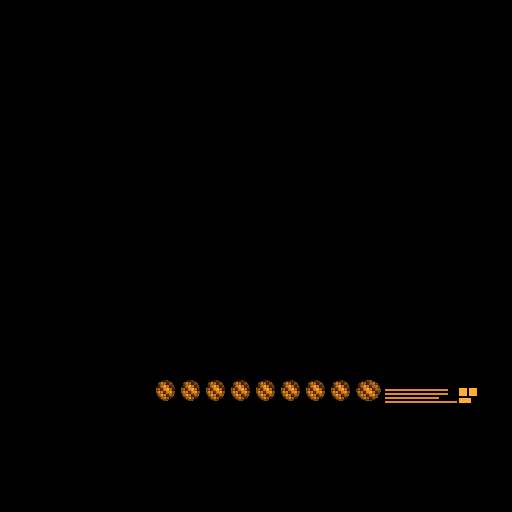
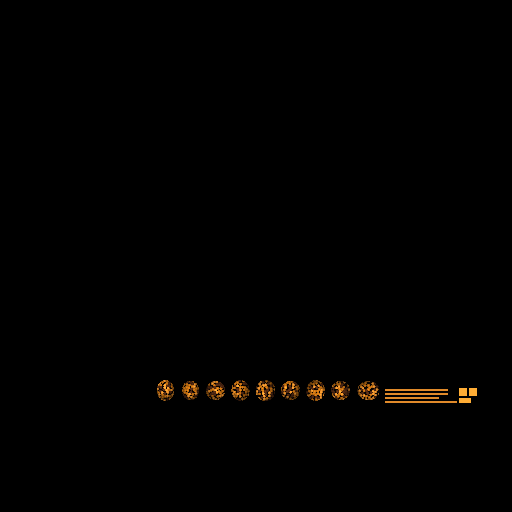
fauna: the Naturalizer's granules are packed beads, and no two beds match
Two of the audit's items needed no aperture work, so they were taken while the
graft/atlas blocker stands.

RESOLVED — all eight beds were pixel-identical. They shared one card-art function,
so every island was the same stamp and the shell read as a repeated decal rather
than an organism. Each window now takes its own seed, moving the packing, shifting
the hot spot off centre and varying the lozenge aspect. Running all nine art
functions over a blank 19x21 tile and comparing: 36 identical pairs of 36 -> 0.

IMPROVED, not resolved — the fill read as a flat woven checkerboard. It kept a
rigid int(x / 3) lattice and took its colour from a per-cell hash, so alternating
light and dark cells in square rows read as weave however round each cell was
shaded. Staggering odd rows and jittering each centre a quarter-cell was NOT
enough: a jittered lattice is still a lattice and the 3-px repeat only fell 0.498
to 0.429. Beads are now dart-thrown against a minimum separation with each pixel
shaded from its nearest bead, which is what packing actually looks like.

  shipped           36/36 identical   repeat 0.498   16.0 highlights/bed
  lattice + jitter   0/36             repeat 0.429   32.7
  dart-thrown        0/36             repeat 0.351   23.7

Plainly: 0.351 is a 30% reduction, not zero, and some periodicity is inherent to
any packed field — the sheet's own beds would measure above zero. The render reads
[…]

Changed region(s): [[0.2812, 0.7188, 0.75, 0.7812]]

diff --git a/to-rust-as-we-fall/docs/SHEET_AUDIT_BACKLOG.md b/to-rust-as-we-fall/docs/SHEET_AUDIT_BACKLOG.md
@@ -1625,3 +1625,46 @@ Builder's card rotation convention rather than guessing, and fix the two remaini
 UNRESOLVED items with it: the beds are all one duplicated stamp (byte-identical
 19x21 islands) and the fill is a flat axis-aligned checkerboard where the sheet
 has ~40 discrete round beads each with its own highlight.
+
+### naturalizer granules — one finding RESOLVED, one measurably improved
+
+Two of the audit's items needed no aperture work, so they were taken while the
+graft/atlas blocker stands.
+
+**RESOLVED — "all eight beds are now pixel-identical".** They shared one card-art
+function, so every island was the same stamp and the shell read as a repeated
+decal. Each window now takes its own seed, which moves the packing, shifts the hot
+spot off centre and varies the lozenge aspect. Measured by running all nine art
+functions over a blank 19x21 tile and comparing: **36 identical pairs of 36 → 0
+of 36.**
+
+**IMPROVED, NOT RESOLVED — "a flat woven checkerboard rather than packed spheres".**
+The first attempt kept a rigid `int(x / 3)` lattice and took its colour from a
+per-cell hash, so alternating light and dark cells in square rows read as weave
+however round each cell was shaded. Staggering odd rows and jittering each centre
+a quarter-cell was NOT enough — a jittered lattice is still a lattice, and the
+3-px repeat only fell 0.498 → 0.429. Beads are now dart-thrown against a minimum
+separation and each pixel shaded from its NEAREST bead, which is what packing
+actually looks like.
+
+Head to head, over all nine beds:
+
+| | identical pairs | 3-px repeat | highlights/bed |
+|---|---|---|---|
+| shipped | 36/36 | 0.498 | 16.0 |
+| lattice + jitter | 0/36 | 0.429 | 32.7 |
+| dart-thrown | **0/36** | **0.351** | 23.7 |
+
+Stated plainly: 0.351 is a 30% reduction, not zero, and some periodicity is
+inherent to any packed field — the sheet's own beds would measure above zero too.
+The render does now read as irregular granular clusters rather than weave, so I am
+calling this improved and leaving the finding open rather than claiming it.
+
+Still open on this piece, all needing the aperture work: the windows sit as flat
+cards on the crown rather than sunk in sockets, they overlap into one mass, the
+distribution is clustered (proved fixable, reverted — see the entry above), and
+the beds do not glow.
+
+Gates: UV audit PASS (folded 0, hard 0), weld PASS (flipped 0, coincident 0,
+nonmanifold 0), rig PASS 20 bones — and that rig PASS now means the mesh is really
+bound, which it did not mean before this session.
